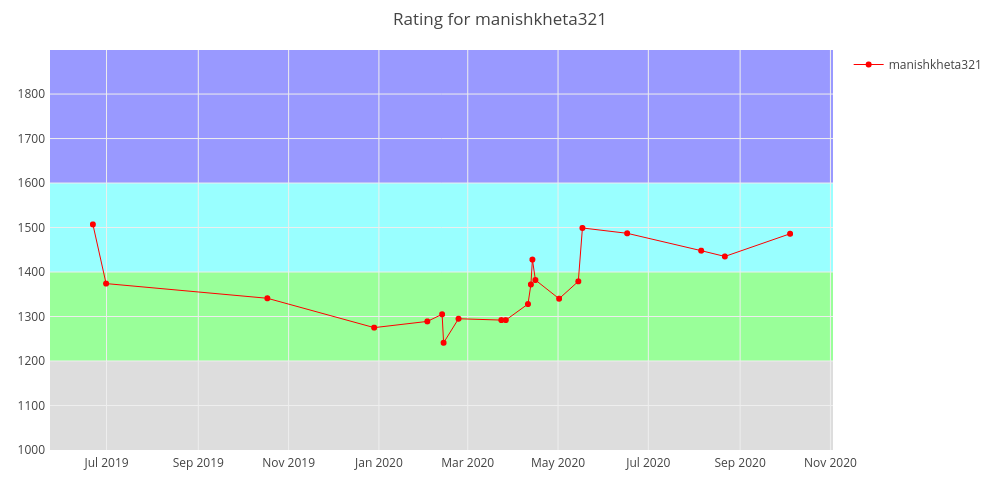
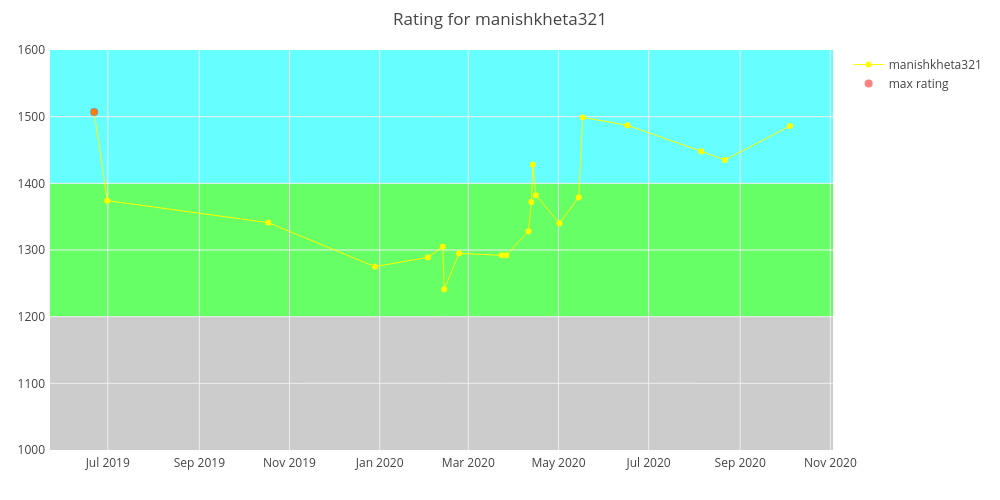
plot max rating

diff --git a/commands/plot.js b/commands/plot.js
@@ -33,18 +33,26 @@ module.exports = {
 
         submissions = datas.result;
         // console.log(submissions);
-        console.log(submissions.length);
+        // console.log(submissions.length);
 
-        for (let i = 0; i <= submissions.length - 1; i++) {
+        var maxRating = -1;
+
+        var da = new Date();
+        for (i = 0; i <= submissions.length - 1; i++) {
           console.log(submissions[i]);
           var date = new Date(submissions[i].ratingUpdateTimeSeconds * 1000);
           console.log(date);
           rating.push(submissions[i].newRating);
+
+          if (maxRating < submissions[i].newRating) {
+            maxRating = submissions[i].newRating;
+            da = date;
+          }
           timeSeries.push(date);
         }
 
-        console.log(rating);
-        console.log(timeSeries);
+        // console.log(rating);
+        // console.log(timeSeries);
 
         var trace1 = {
           x: timeSeries,
@@ -57,7 +65,68 @@ module.exports = {
           },
           name: `${args[0]}`,
         };
+        var trace2 = {
+          x: [da],
+          y: [maxRating],
+          mode: "markers",
+          type: "scatter",
+          marker: {
+            color: "red",
+            opacity: 0.5,
+            size: 8,
+          },
+          name: "max rating",
+        };
 
+        var ratings = [
+          1000,
+          1200,
+          1400,
+          1600,
+          1900,
+          2100,
+          2300,
+          2400,
+          2600,
+          3000,
+          3500,
+        ];
+        var opaci = [0.6, 0.6, 0.6, 0.6, 0.6, 0.6, 0.6, 0.2, 0.6, 0.6];
+        var color = [
+          "#aaa",
+          "#0f0",
+          "#0ff",
+          "#00f",
+          "#f0f",
+          "orange",
+          "orange",
+          "red",
+          "red",
+          "rgb(128,0,0)",
+        ];
+        var shapes = [];
+
+        var shape = {};
+        for (var i = 0; i < 10; i++) {
+          shape = {
+            type: "rect",
+            xref: "paper",
+            yref: "y",
+            x0: 0,
+            x1: 1,
+            y0: ratings[i],
+            y1: ratings[i + 1],
+            fillcolor: color[i],
+            opacity: opaci[i],
+            layer: "below",
+            line: {
+              width: 0,
+            },
+          };
+
+          shapes.push(shape);
+          if (maxRating < ratings[i + 1]) break;
+        }
         var layout = {
           autosize: false,
           title: `Rating for ${args[0]}`,
@@ -69,164 +138,13 @@ module.exports = {
             pad: 4,
           },
           showlegend: true,
-
-          shapes: [
-            {
-              type: "rect",
-              xref: "paper",
-              yref: "y",
-              x0: 0,
-              x1: 1,
-              y0: 1000,
-              y1: 1200,
-              fillcolor: "#aaa",
-              opacity: 0.4,
-              layer: "below",
-              line: {
-                width: 0,
-              },
-            },
-            {
-              type: "rect",
-              xref: "paper",
-              yref: "y",
-              x0: 0,
-              x1: 1,
-              y0: 1200,
-              y1: 1400,
-              fillcolor: "#0f0",
-              opacity: 0.4,
-              layer: "below",
-              line: {
-                width: 0,
-              },
-            },
-            {
-              type: "rect",
-              xref: "paper",
-              yref: "y",
-              x0: 0,
-              x1: 1,
-              y0: 1400,
-              y1: 1600,
-              fillcolor: "#0ff",
-              opacity: 0.4,
-              layer: "below",
-              line: {
-                width: 0,
-              },
-            },
-            {
-              type: "rect",
-              xref: "paper",
-              yref: "y",
-              x0: 0,
-              x1: 1,
-              y0: 1600,
-              y1: 1899,
-              fillcolor: "#00f",
-              opacity: 0.4,
-              layer: "below",
-              line: {
-                width: 0,
-              },
-            },
-            {
-              type: "rect",
-              xref: "paper",
-              yref: "y",
-              x0: 0,
-              x1: 1,
-              y0: 1900,
-              y1: 2100,
-              fillcolor: "#f0f",
-              opacity: 0.4,
-              layer: "below",
-              line: {
-                width: 0,
-              },
-            },
-            {
-              type: "rect",
-              xref: "paper",
-              yref: "y",
-              x0: 0,
-              x1: 1,
-              y0: 2100,
-              y1: 2300,
-              fillcolor: "orange",
-              opacity: 0.4,
-              layer: "below",
-              line: {
-                width: 0,
-              },
-            },
-            {
-              type: "rect",
-              xref: "paper",
-              yref: "y",
-              x0: 0,
-              x1: 1,
-              y0: 2300,
-              y1: 2400,
-              fillcolor: "orange",
-              opacity: 0.6,
-              layer: "below",
-              line: {
-                width: 0,
-              },
-            },
-            {
-              type: "rect",
-              xref: "paper",
-              yref: "y",
-              x0: 0,
-              x1: 1,
-              y0: 2400,
-              y1: 2600,
-              fillcolor: "red",
-              opacity: 0.2,
-              layer: "below",
-              line: {
-                width: 0,
-              },
-            },
-            {
-              type: "rect",
-              xref: "paper",
-              yref: "y",
-              x0: 0,
-              x1: 1,
-              y0: 2600,
-              y1: 3000,
-              fillcolor: "red",
-              opacity: 0.6,
-              layer: "below",
-              line: {
-                width: 0,
-              },
-            },
-            {
-              type: "rect",
-              xref: "paper",
-              yref: "y",
-              x0: 0,
-              x1: 1,
-              y0: 3000,
-              y1: 3500,
-              fillcolor: "rgb(128,0,0)",
-              opacity: 0.6,
-              layer: "below",
-              line: {
-                width: 0,
-              },
-            },
-          ],
+          shapes: shapes,
         };
+        console.log(layout);
 
-        var figure = { data: [trace1], layout: layout };
-
-        var filename = args[0] + ".png";
+        var figure = { data: [trace1, trace2], layout: layout };
+        console.log(figure);
+        var filename = "plot.png";
 
         var pngOptions = { format: "png", width: 1000, height: 500 };
 
